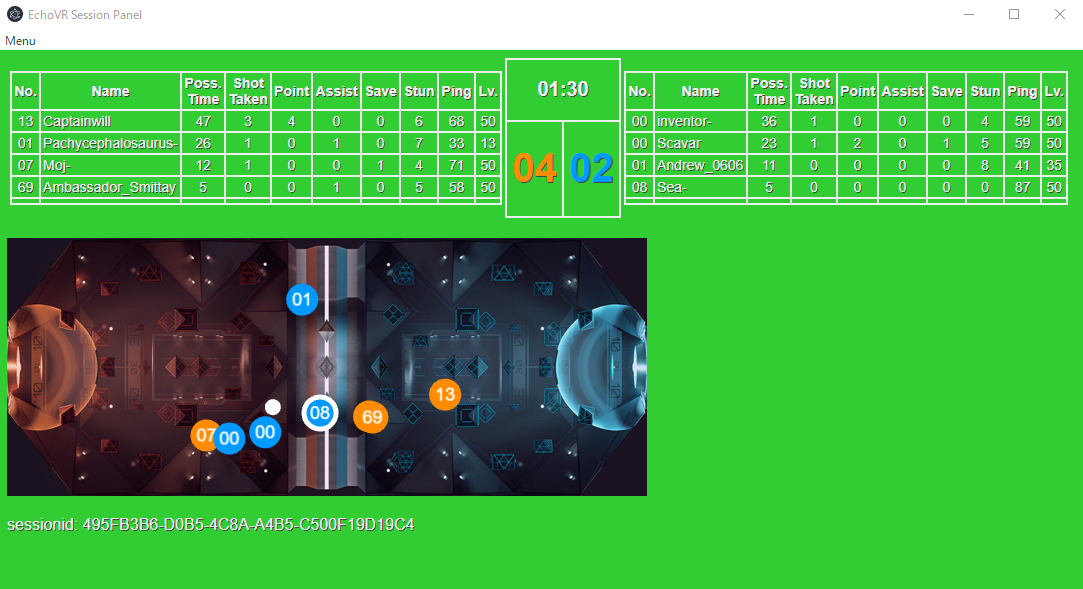
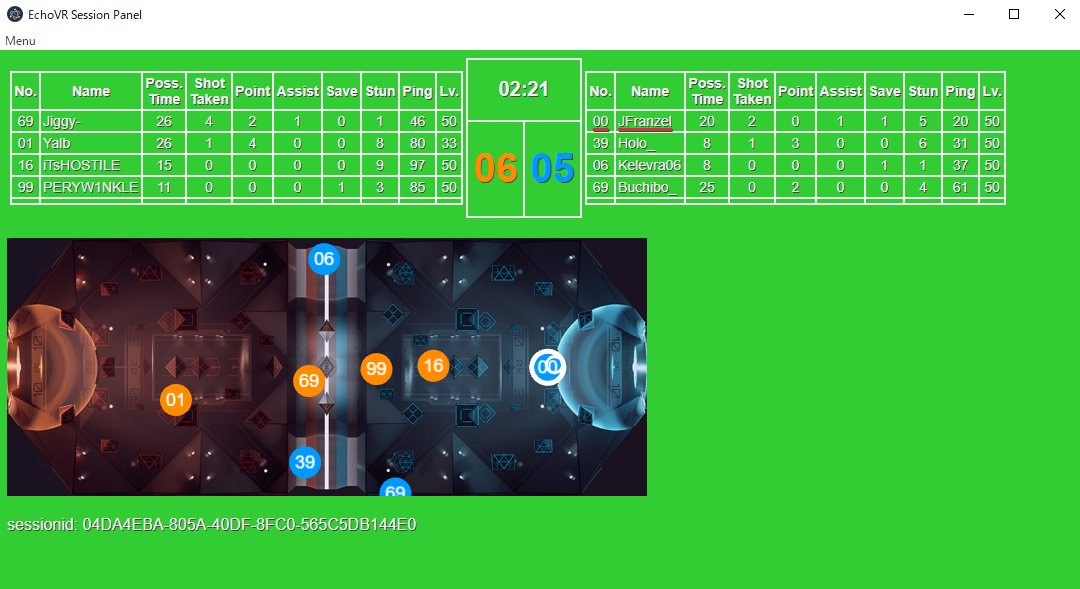
Update design

diff --git a/preload.js b/preload.js
@@ -31,7 +31,7 @@ window.addEventListener('DOMContentLoaded', () => {
       .then((response) => response.json())
       .then((data) => renderHTML(data))
       .catch(console.error);
-  }, 1000);
+  }, 500);
 
   document.getElementById('map').appendChild(app.view);
 });
@@ -70,8 +70,7 @@ function renderScoreborad(sessionData) {
   replaceText('sessionid', sessionid);
 
   const game_status = sessionData.game_status;
-  if (!game_status) {
-    // if it isn't in game. not render.
+  if (!game_status || game_status === 'round_over' || game_status === 'post_match') {
     return;
   }
 
@@ -89,6 +88,7 @@ function renderScoreborad(sessionData) {
   const empty_player = {
     no: '',
     name: '',
+    possession : false,
     possession_time: '',
     shots_taken: '',
     point: '',
@@ -104,6 +104,7 @@ function renderScoreborad(sessionData) {
     return {
       no: zeroPaddingString(p.number),
       name: p.name,
+      possession : p.possession,
       possession_time: Math.round(p.stats.possession_time),
       shots_taken: p.stats.shots_taken,
       point: p.stats.points,
@@ -122,6 +123,19 @@ function renderScoreborad(sessionData) {
     if (!p) p = empty_player;
     document.getElementById('o-no-' + i).innerText = p.no;
     document.getElementById('o-nm-' + i).innerText = p.name;
+
+    if (p.possession) {
+      document.getElementById('o-no-' + i).classList.remove('nopossess');
+      document.getElementById('o-no-' + i).classList.add('possess');
+      document.getElementById('o-nm-' + i).classList.remove('nopossess');
+      document.getElementById('o-nm-' + i).classList.add('possess');
+    } else {
+      document.getElementById('o-no-' + i).classList.remove('possess');
+      document.getElementById('o-no-' + i).classList.add('nopossess');
+      document.getElementById('o-nm-' + i).classList.remove('possess');
+      document.getElementById('o-nm-' + i).classList.add('nopossess');
+    }
+
     document.getElementById('o-ps-' + i).innerText = p.possession_time;
     document.getElementById('o-sh-' + i).innerText = p.shots_taken;
     document.getElementById('o-pt-' + i).innerText = p.point;
@@ -138,6 +152,7 @@ function renderScoreborad(sessionData) {
       no: zeroPaddingString(p.number),
       name: p.name,
       possession_time: Math.round(p.stats.possession_time),
+      possession : p.possession,
       shots_taken: p.stats.shots_taken,
       point: p.stats.points,
       assists: p.stats.assists,
@@ -153,6 +168,19 @@ function renderScoreborad(sessionData) {
     if (!p) p = empty_player;
     document.getElementById('b-no-' + i).innerText = p.no;
     document.getElementById('b-nm-' + i).innerText = p.name;
+
+    if (p.possession) {
+      document.getElementById('b-no-' + i).classList.remove('nopossess');
+      document.getElementById('b-no-' + i).classList.add('possess');
+      document.getElementById('b-nm-' + i).classList.remove('nopossess');
+      document.getElementById('b-nm-' + i).classList.add('possess');
+    } else {
+      document.getElementById('b-no-' + i).classList.remove('possess');
+      document.getElementById('b-no-' + i).classList.add('nopossess');
+      document.getElementById('b-nm-' + i).classList.remove('possess');
+      document.getElementById('b-nm-' + i).classList.add('nopossess');
+    }
+
     document.getElementById('b-ps-' + i).innerText = p.possession_time;
     document.getElementById('b-sh-' + i).innerText = p.shots_taken;
     document.getElementById('b-pt-' + i).innerText = p.point;
@@ -174,8 +202,7 @@ let texts = [];
  */
 function renderMap(sessionData) {
   const game_status = sessionData.game_status;
-  if (!game_status) {
-    // if it isn't in game. not render.
+  if (!game_status || game_status === 'round_over' || game_status === 'post_match') {
     return;
   }
 
@@ -255,10 +282,8 @@ function renderMap(sessionData) {
   const disc_x = CENTER_X - disc_position[2] * SCALE;
   const disc_y = CENTER_Y + disc_position[0] * SCALE;
   const graphics = new PIXI.Graphics();
-  graphics.lineStyle(0);
-  graphics.beginFill(0xffffff, 1);
+  graphics.lineStyle(3, 0xffffff);
   graphics.drawCircle(disc_x, disc_y, 8);
-  graphics.endFill();
   app.stage.addChild(graphics);
   graphicses.push(graphics);
 }

diff --git a/main.js b/main.js
@@ -23,8 +23,10 @@ function createWindow() {
             const prompt = require('electron-prompt');
             prompt({
               title:
-                'Input sessions API URL. ex. http://127.0.0.1:6721/session',
-              label: 'URL:',
+                'Settings',
+              width : 370,
+              height : 200,
+              label: 'Session API URL:',
               value: 'http://127.0.0.1:6721/session',
               inputAttrs: {
                 type: 'url',

diff --git a/style.css b/style.css
@@ -69,6 +69,21 @@ table.stats td {
     border: solid 2px #eee;
 }
 
+table.stats td.nopossess {
+    text-align: center;
+    padding: 2px;
+    border: solid 2px #eee;
+    text-decoration: none;
+}
+
+table.stats td.possess {
+    text-align: center;
+    padding: 2px;
+    border: solid 2px #eee;
+    text-decoration: underline #d0343f;
+    text-decoration-thickness: 3px;
+}
+
 table.stats td.nm {
     text-align: left;
 }
